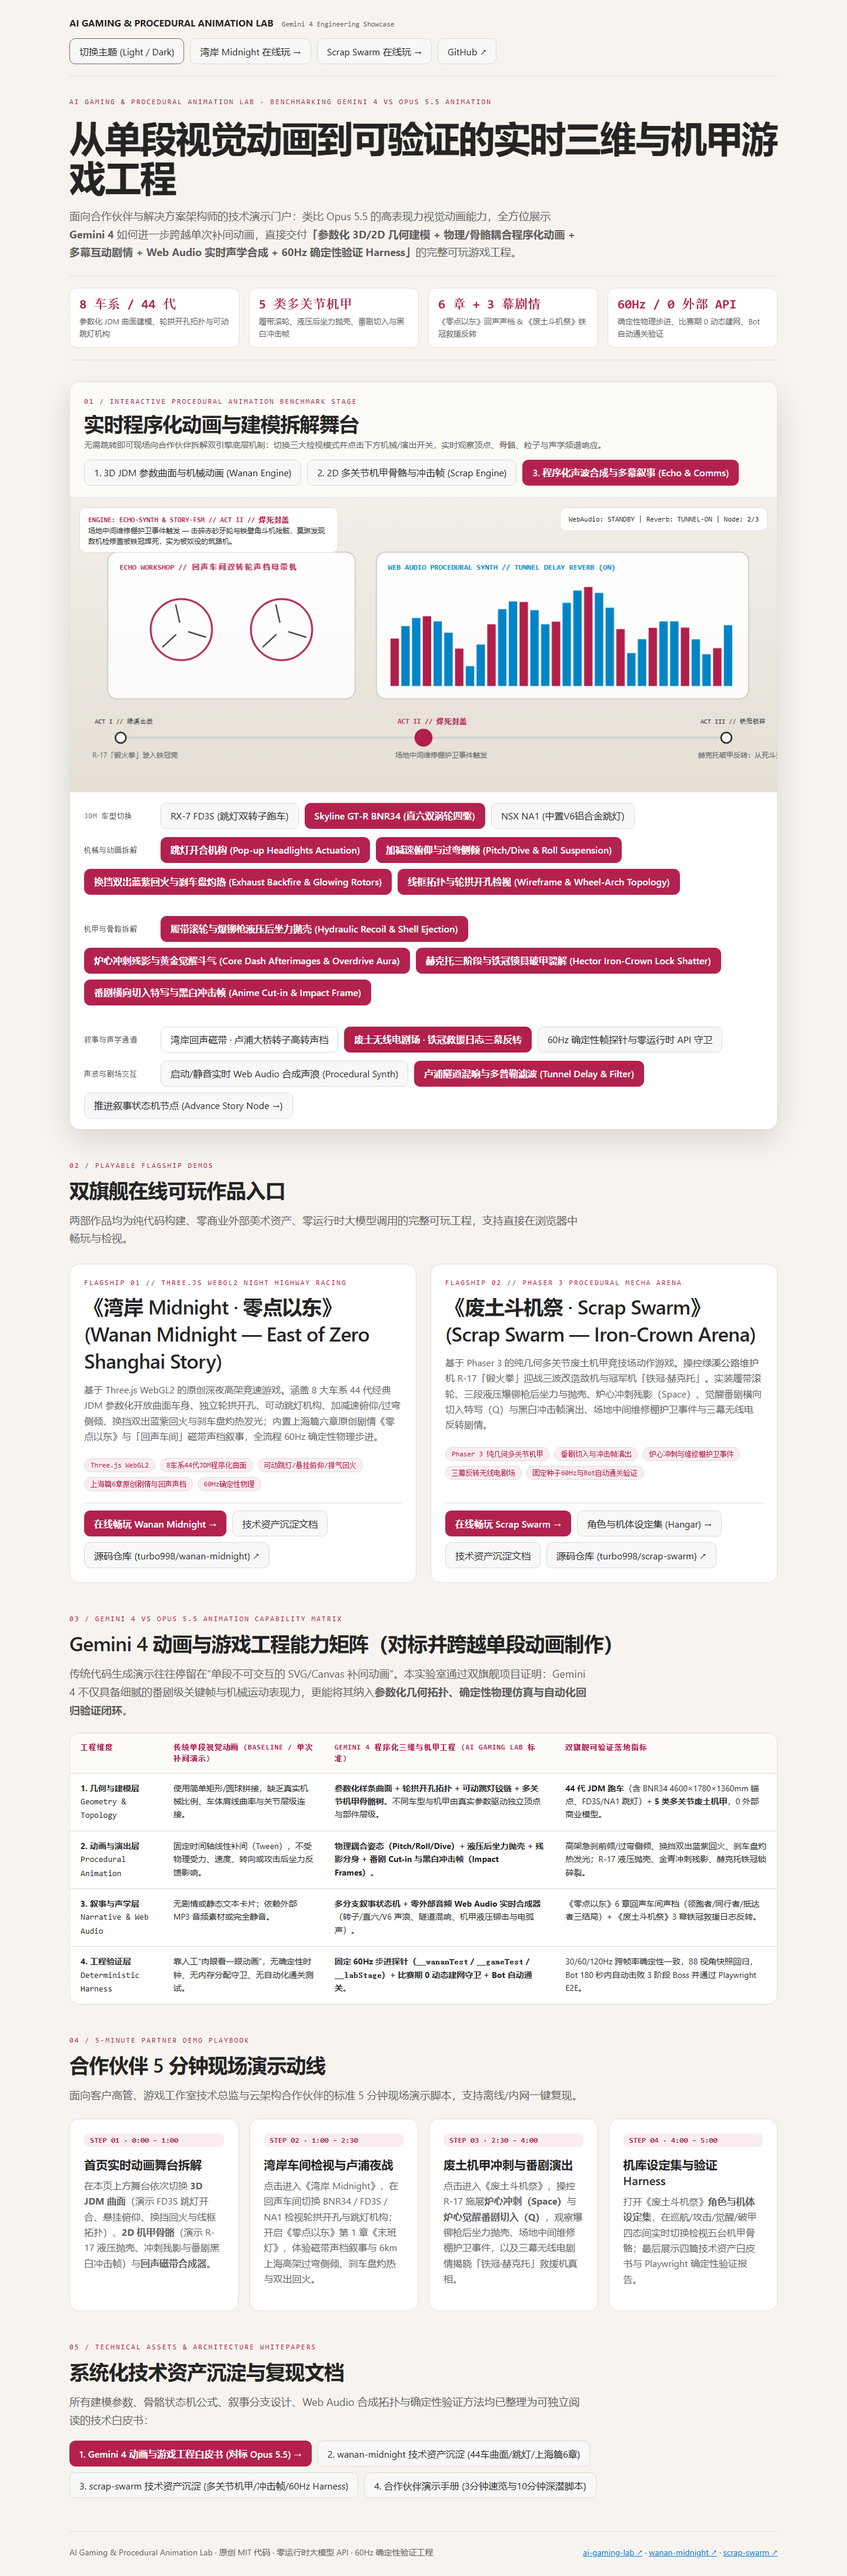
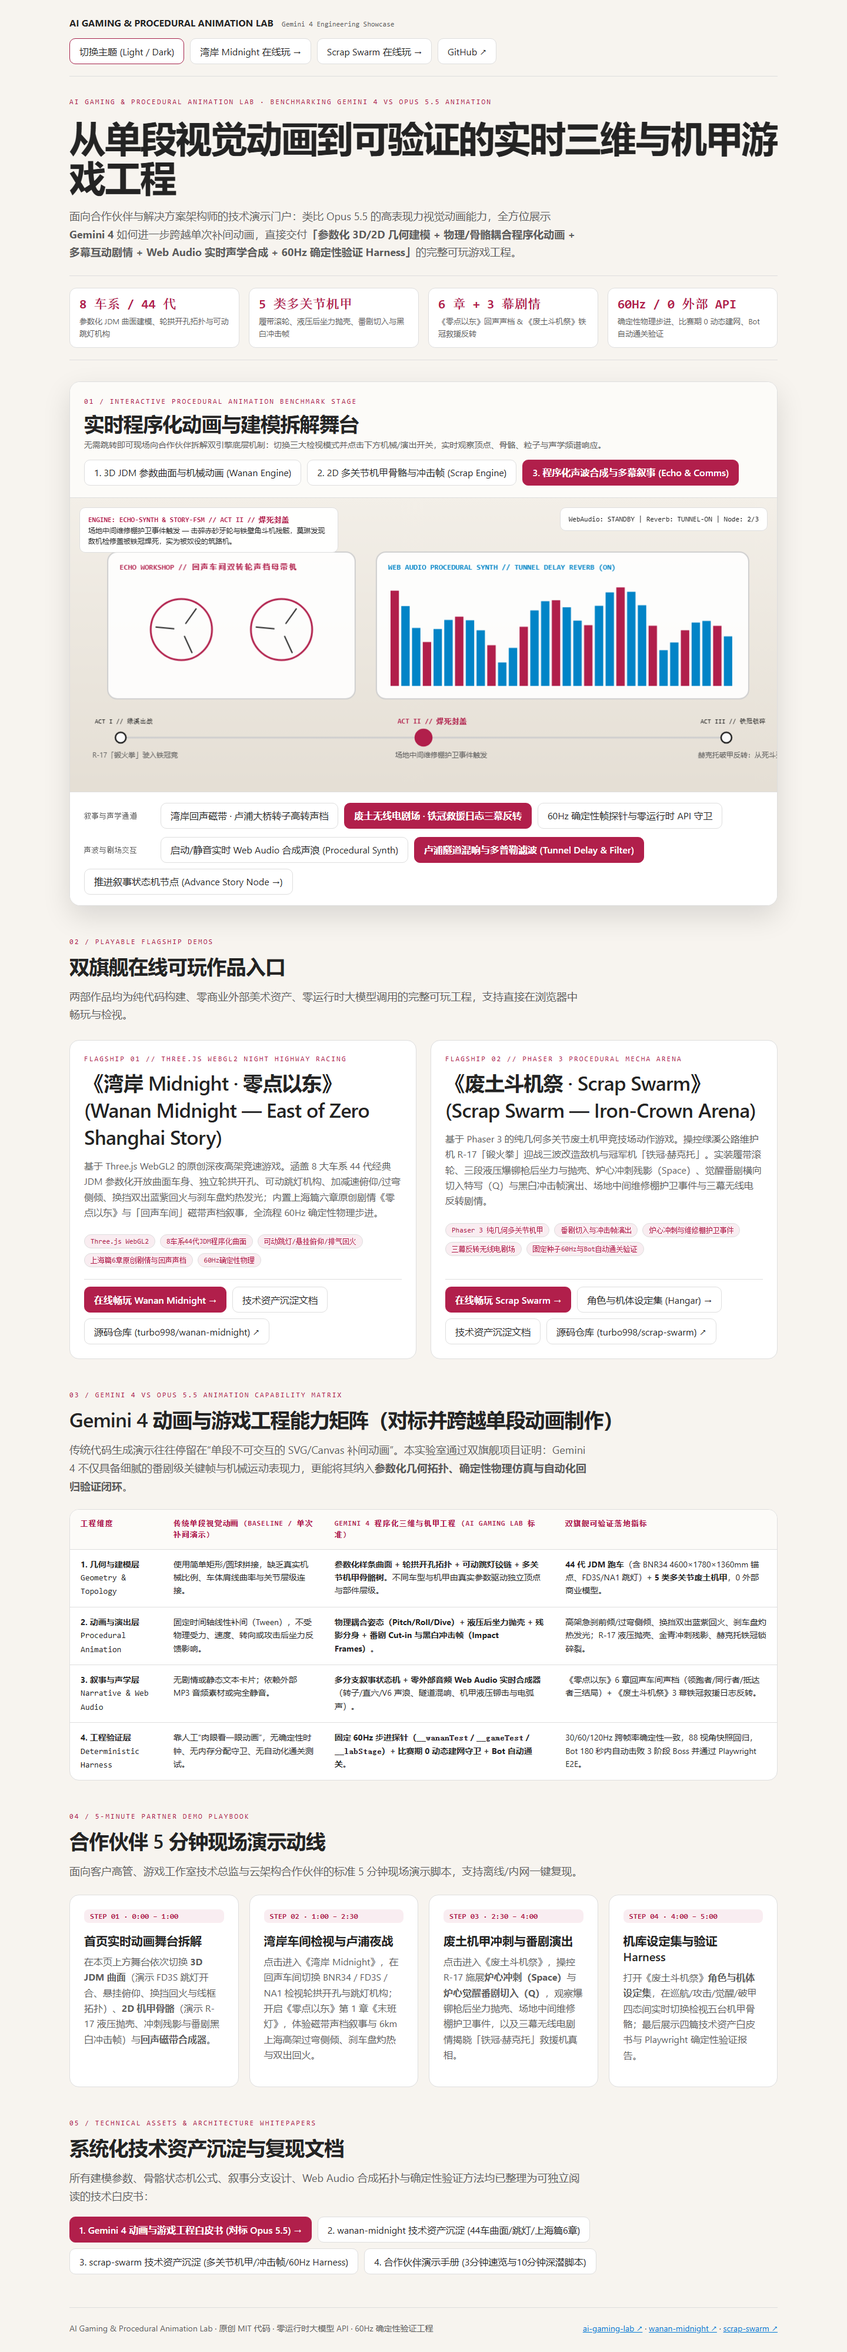
Fix portal controls and refresh demo evidence
Copilot-Session: 44933793-65d0-47d7-9aaa-8125064ff250

Changed region(s): [[0.0625, 0.0, 0.9375, 0.993], [0.5, 0.8068, 0.6875, 0.8999], [0.7188, 0.8068, 0.9062, 0.8999]]

diff --git a/tests/e2e/portal.spec.ts b/tests/e2e/portal.spec.ts
@@ -23,6 +23,9 @@ test.describe('AI Gaming & Procedural Animation Lab Portal E2E', () => {
     const initialStage = await page.evaluate(() => window.__labStage?.getState());
     expect(initialStage?.activeTab).toBe('wanan');
     expect(initialStage?.selectedCar).toBe('fd3s');
+    await expect(page.locator('#stage-controls-wanan')).toBeVisible();
+    await expect(page.locator('#stage-controls-scrap')).toBeHidden();
+    await expect(page.locator('#stage-controls-echo')).toBeHidden();
 
     await page.click('[data-car-id="bnr34"]');
     await page.click('[data-wanan-toggle="wireframeTopology"]');
@@ -40,6 +43,9 @@ test.describe('AI Gaming & Procedural Animation Lab Portal E2E', () => {
     expect(afterScrapToggle?.activeTab).toBe('scrap');
     expect(afterScrapToggle?.scrap.animeCutInImpact).toBe(true);
     await expect(page.locator('#stage-hud-left')).toContainText('R-17 VS HECTOR');
+    await expect(page.locator('#stage-controls-wanan')).toBeHidden();
+    await expect(page.locator('#stage-controls-scrap')).toBeVisible();
+    await expect(page.locator('#stage-controls-echo')).toBeHidden();
 
     await page.screenshot({ path: 'docs/evidence/portal-stage-scrap-dark.png', fullPage: false });
 
@@ -52,6 +58,9 @@ test.describe('AI Gaming & Procedural Animation Lab Portal E2E', () => {
     expect(afterEchoToggle?.echoPreset).toBe('ironcrown');
     expect(afterEchoToggle?.echo.storyNodeIndex).toBe(1);
     await expect(page.locator('#stage-hud-left')).toContainText('ACT II // 焊死封盖');
+    await expect(page.locator('#stage-controls-wanan')).toBeHidden();
+    await expect(page.locator('#stage-controls-scrap')).toBeHidden();
+    await expect(page.locator('#stage-controls-echo')).toBeVisible();
 
     // Toggle theme to light mode
     await page.click('#theme-toggle-btn');

diff --git a/assets/theme.css b/assets/theme.css
@@ -227,6 +227,9 @@ h3 {
   flex-direction: column;
   gap: 14px;
 }
+[hidden], .stage-controls-bar[hidden] {
+  display: none !important;
+}
 .control-row {
   display: flex;
   flex-wrap: wrap;
